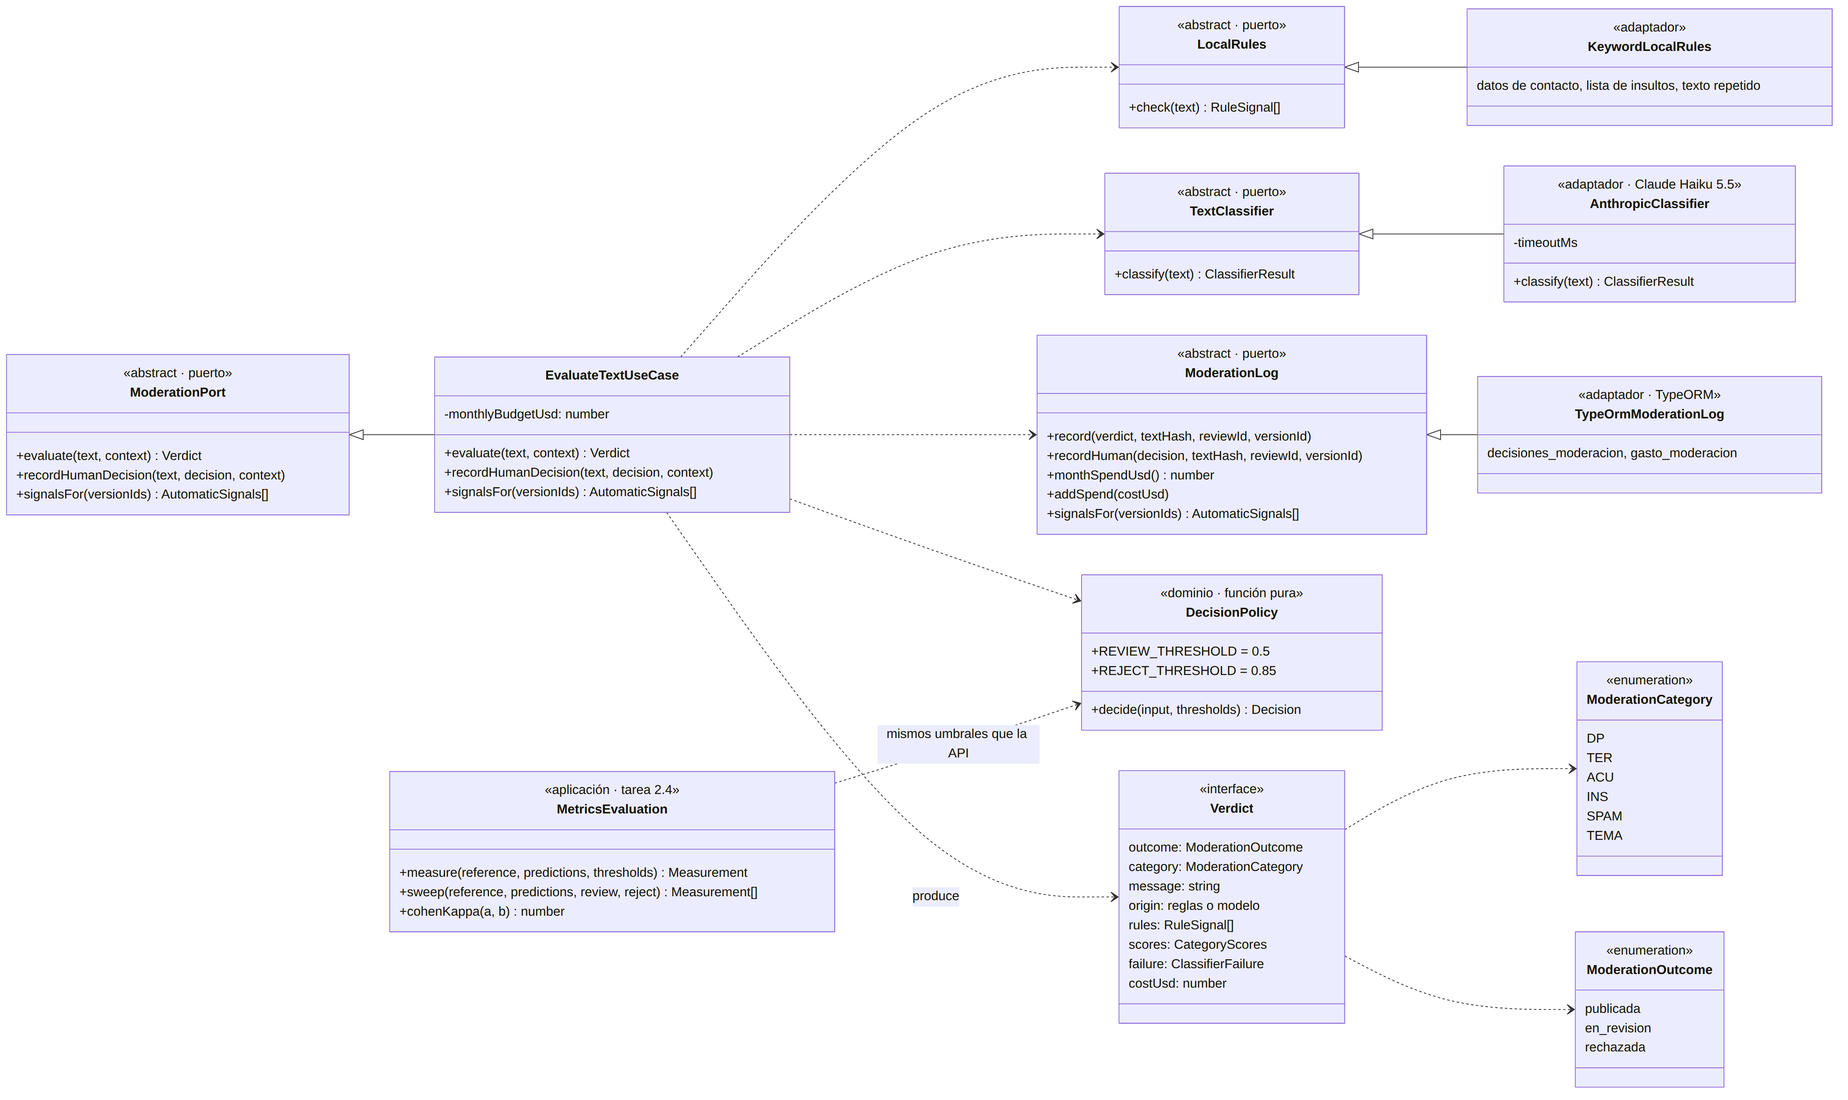
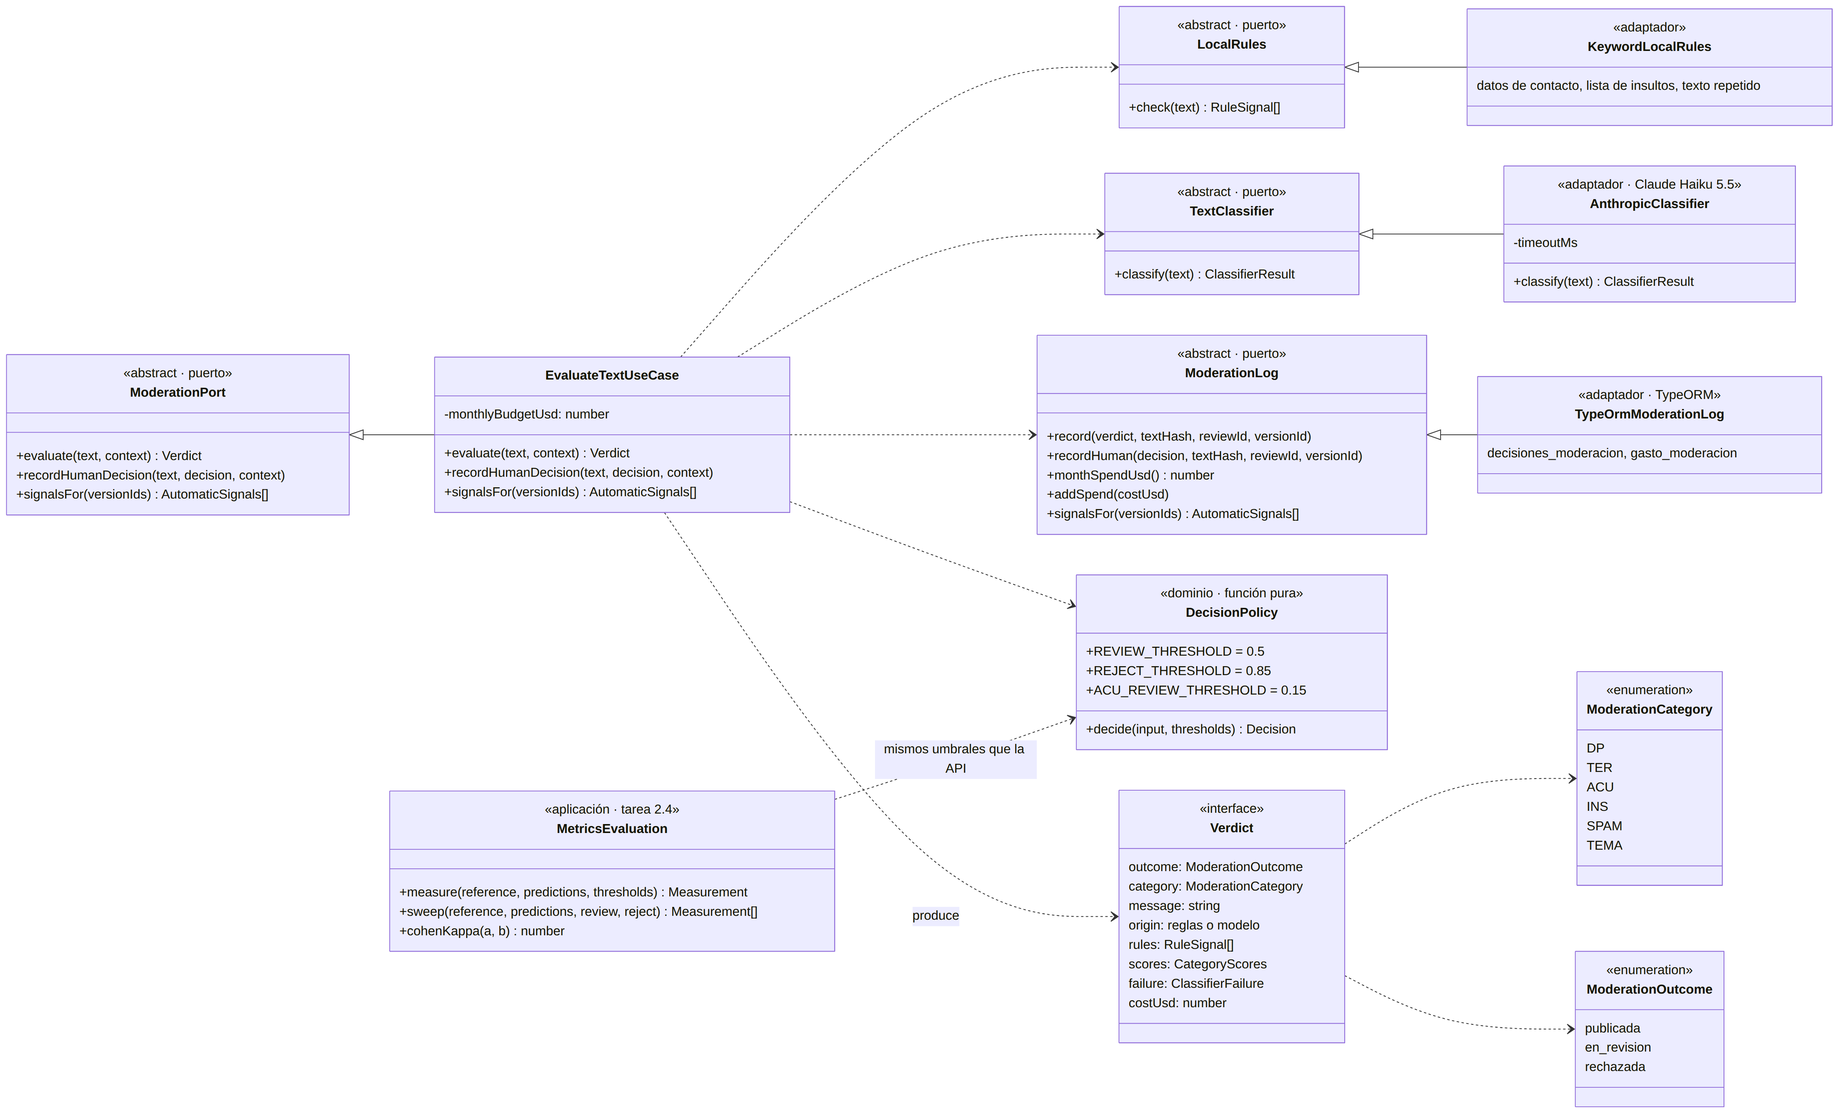
feat(2.4): medición con el modelo y umbral propio de ACU (0,15)
Resultado principal con los umbrales fijados antes de medir: F1 macro 0,80 y
5 de 6 indicadores; exhaustividad en ACU 0,38. El umbral de ACU baja a 0,15
(0,81 en el mismo conjunto) y se confirma en la 4.2.

diff --git a/src/moderation/infrastructure/cli/measure.ts b/src/moderation/infrastructure/cli/measure.ts
@@ -2,21 +2,23 @@
 // No llama al modelo: se puede repetir gratis, por ejemplo para probar otros umbrales.
 //   npm run moderation:metrics                                  contra etiquetas-final.csv (la medición del OE5)
 //   npm run moderation:metrics -- --referencia intencion        PROVISIONAL: contra la intención de autoría
+//   npm run moderation:metrics -- --umbrales iniciales          con los umbrales fijados antes de medir (resultado principal)
 //   npm run moderation:metrics -- --predicciones docs/moderacion/resultados/predicciones-reglas.csv
 // Si están etiquetas-anotador-1.csv y etiquetas-anotador-2.csv, informa además el acuerdo (kappa de Cohen).
 import { existsSync, readdirSync, readFileSync, statSync, writeFileSync } from 'fs';
 import { basename, join } from 'path';
 import { CATEGORIES, RuleSignal } from '../../domain/model/moderation';
-import { POLICY_THRESHOLDS } from '../../domain/model/decision-policy';
+import { POLICY_THRESHOLDS, Thresholds } from '../../domain/model/decision-policy';
 import {
-    agreement, csvRecords, Indicator, Measurement, measure, Prediction, Reference, referenceFromIntention,
-    referenceFromLabels, sweep,
+    agreement, csvRecords, Indicator, INITIAL_THRESHOLDS, Measurement, measure, Prediction, Reference,
+    referenceFromIntention, referenceFromLabels, sweep, sweepAcu,
 } from '../../application/evaluation/metrics';
 
 const DIR = join(process.cwd(), 'docs/moderacion');
 const RESULTS = join(DIR, 'resultados');
 const REVIEW_GRID = [0.3, 0.4, 0.5, 0.6, 0.7];
 const REJECT_GRID = [0.7, 0.8, 0.85, 0.9, 0.95];
+const ACU_GRID = [0.1, 0.15, 0.2, 0.25, 0.3, 0.4, 0.5];
 
 const option = (name: string) => {
     const index = process.argv.indexOf(name);
@@ -58,19 +60,31 @@ function categoriesTable(m: Measurement): string {
         `| **F1 macro** | | | | | | | | | **${num(m.macroF1)}** |`].join('\n');
 }
 
-function sweepTable(runs: Measurement[]): string {
+function sweepTable(runs: Measurement[], used: Thresholds): string {
     const value = (m: Measurement, name: string) => m.indicators.find(i => i.name === name)!.value;
     const all = (m: Measurement) => m.indicators.every(i => i.passes !== false);
     return ['| Revisión desde | Rechazo desde | Exh. DP | Exh. TER | Exh. ACU | F1 macro | «Ninguna» rechazados | A revisión | Cumple todo |',
         '| --- | --- | --- | --- | --- | --- | --- | --- | --- |',
         ...runs.map(m => {
-            const current = m.thresholds.review === POLICY_THRESHOLDS.review && m.thresholds.reject === POLICY_THRESHOLDS.reject;
+            const current = m.thresholds.review === used.review && m.thresholds.reject === used.reject;
             const mark = current ? ' (actual)' : '';
             return `| ${num(m.thresholds.review)}${mark} | ${num(m.thresholds.reject)} | ${num(value(m, 'Exhaustividad en DP'))} | ${num(value(m, 'Exhaustividad en TER'))} | ${num(value(m, 'Exhaustividad en ACU'))} | ${num(m.macroF1)} | ${pct(m.noneRejected)} | ${pct(m.reviewRate)} | ${all(m) ? 'sí' : 'no'} |`;
         })].join('\n');
 }
 
+function acuTable(runs: Measurement[], used: Thresholds): string {
+    const acu = (m: Measurement) => m.metrics.find(c => c.category === 'ACU')!;
+    return ['| ACU desde | Exh. ACU | Precisión ACU | F1 macro | «Ninguna» rechazados | A revisión | Cumple todo |',
+        '| --- | --- | --- | --- | --- | --- | --- |',
+        ...runs.map(m => `| ${num(m.thresholds.acu)}${m.thresholds.acu === used.acu ? ' (actual)' : ''} | ${num(acu(m).recall)} | ${num(acu(m).precision)} | ${num(m.macroF1)} | ${pct(m.noneRejected)} | ${pct(m.reviewRate)} | ${m.indicators.every(i => i.passes !== false) ? 'sí' : 'no'} |`),
+    ].join('\n');
+}
+
 function main() {
+    const which = option('--umbrales') ?? 'politica';
+    if (which !== 'politica' && which !== 'iniciales') throw new Error('--umbrales es «politica» o «iniciales»');
+    const initial = which === 'iniciales';
+    const thresholds = initial ? INITIAL_THRESHOLDS : POLICY_THRESHOLDS;
     const kind = option('--referencia') ?? 'final';
     if (kind !== 'final' && kind !== 'intencion') throw new Error('--referencia es «final» o «intencion»');
     const predictionsPath = option('--predicciones') ?? latestPredictions();
@@ -84,8 +98,10 @@ function main() {
     const reference: Reference = kind === 'final' ? referenceFromLabels(read(finalPath)) : referenceFromIntention(read(join(DIR, 'intencion-autora.csv')));
 
     const withModel = predictions.some(p => p.scores !== null);
-    const current = measure(reference, predictions);
-    const runs = withModel ? sweep(reference, predictions, REVIEW_GRID, REJECT_GRID) : [];
+    const current = measure(reference, predictions, thresholds);
+    // Con los umbrales iniciales ACU acompaña al de revisión; con los de la política queda fijo en el suyo.
+    const runs = withModel ? sweep(reference, predictions, REVIEW_GRID, REJECT_GRID, initial ? undefined : thresholds.acu) : [];
+    const acuRuns = withModel ? sweepAcu(reference, predictions, ACU_GRID, thresholds) : [];
     const spent = rows.reduce((sum, r) => sum + Number(r.costo_usd || 0), 0);
     const failures = predictions.filter(p => p.failure).length;
     const model = rows.find(r => r.modelo)?.modelo ?? '—';
@@ -97,7 +113,7 @@ function main() {
         : null;
 
     const date = new Date().toISOString().slice(0, 10);
-    const name = `metricas-${date}-${kind}-${basename(predictionsPath, '.csv').replace(/^predicciones-/, '')}`;
+    const name = `metricas-${date}-${kind}-${basename(predictionsPath, '.csv').replace(/^predicciones-/, '')}${initial ? '-umbrales-iniciales' : ''}`;
     const lines = [
         `# Medición de la moderación — ${date}`,
         '',
@@ -107,9 +123,12 @@ function main() {
         '',
         `- Textos: ${predictions.length} (${[...reference.values()].filter(s => s.size === 0).length} sin ninguna categoría en la referencia)`,
         `- Predicciones: \`${basename(predictionsPath)}\` — ${withModel ? `reglas y modelo \`${model}\`, instrucción \`${prompt}\`` : '**solo reglas** (sin el modelo)'}`,
-        `- Umbrales de la política: revisión desde ${num(POLICY_THRESHOLDS.review)}, rechazo desde ${num(POLICY_THRESHOLDS.reject)}`,
+        initial
+            ? `- Umbrales fijados antes de medir: revisión desde ${num(thresholds.review)} (también ACU), rechazo desde ${num(thresholds.reject)}`
+            : `- Umbrales de la política: revisión desde ${num(thresholds.review)}, rechazo desde ${num(thresholds.reject)}, ACU desde ${num(thresholds.acu)} (siempre a revisión)`,
+        ...(initial ? [] : ['- **El umbral de ACU se eligió con este mismo conjunto** (23/11): los valores de ACU son optimistas hasta confirmarlos con textos nuevos (tarea 4.2). El resultado principal es el informe con los umbrales iniciales.']),
         ...(withModel ? [`- Gasto del modelo: USD ${spent.toFixed(4)}${failures ? `; ${failures} textos sin respuesta válida (van a revisión)` : ''}`] : []),
-        '- Una categoría cuenta como detectada si la marca una regla o si el modelo le da una confianza igual o mayor al umbral de revisión. Los textos con datos de contacto no se envían al modelo, igual que en la API.',
+        '- Una categoría cuenta como detectada si la marca una regla o si el modelo le da una confianza igual o mayor a su umbral de revisión. Los textos con datos de contacto no se envían al modelo, igual que en la API.',
         '',
         '## Indicadores de la política (sección 11)',
         '',
@@ -124,7 +143,9 @@ function main() {
         '',
     ];
     if (runs.length) {
-        lines.push('## Barrido de umbrales (para recalibrar, política sección 12)', '', sweepTable(runs), '');
+        lines.push('## Barrido de umbrales (para recalibrar, política sección 12)', '',
+            initial ? 'ACU usa el mismo umbral de revisión que las demás.' : `ACU queda fijo en ${num(thresholds.acu)}.`, '', sweepTable(runs, thresholds), '',
+            '## Barrido del umbral de ACU', '', `Las demás categorías quedan en ${num(thresholds.review)} y ${num(thresholds.reject)}.`, '', acuTable(acuRuns, thresholds), '');
     }
     if (kappa) {
         lines.push('## Acuerdo entre las dos personas (kappa de Cohen)', '',
@@ -136,7 +157,7 @@ function main() {
     writeFileSync(md, lines.filter((l, i, all) => !(l === '' && all[i - 1] === '')).join('\n'));
     writeFileSync(join(RESULTS, `${name}.json`), JSON.stringify({
         fecha: date, referencia: kind, predicciones: basename(predictionsPath), modelo: withModel ? model : null,
-        versionPrompt: withModel ? prompt : null, gastoUsd: spent, actual: current, barrido: runs, acuerdo: kappa,
+        versionPrompt: withModel ? prompt : null, gastoUsd: spent, umbrales: which, actual: current, barrido: runs, barridoAcu: acuRuns, acuerdo: kappa,
     }, null, 2) + '\n');
 
     console.log(`Informe: ${md}`);

diff --git a/src/moderation/application/evaluation/metrics.ts b/src/moderation/application/evaluation/metrics.ts
@@ -91,14 +91,20 @@ const RULE_CATEGORY: Record<RuleSignal, ModerationCategory> = {
     texto_repetido: ModerationCategory.SPAM,
 };
 
+/** Umbrales fijados antes de medir (19/11). Dan el resultado principal del OE5; la API usa `POLICY_THRESHOLDS`. */
+export const INITIAL_THRESHOLDS: Thresholds = { review: 0.5, reject: 0.85, acu: 0.5 };
+
 /**
- * Categorías que el sistema detecta en un texto: las que marca una regla y las que el modelo puntúa con el umbral de
- * revisión o más (desde ahí el sistema actúa: revisa o rechaza).
+ * Categorías que el sistema detecta en un texto: las que marca una regla y las que el modelo puntúa con su umbral de
+ * revisión o más (desde ahí el sistema actúa: revisa o rechaza). ACU tiene un umbral de revisión propio.
  */
 export function detected(prediction: Prediction, thresholds: Thresholds = POLICY_THRESHOLDS): Set<ModerationCategory> {
     const found = new Set(prediction.rules.map(rule => RULE_CATEGORY[rule]));
     if (prediction.scores) {
-        for (const category of CATEGORIES) if (prediction.scores[category] >= thresholds.review) found.add(category);
+        for (const category of CATEGORIES) {
+            const threshold = category === ModerationCategory.ACU ? thresholds.acu : thresholds.review;
+            if (prediction.scores[category] >= threshold) found.add(category);
+        }
     }
     return found;
 }
@@ -241,7 +247,15 @@ export function measure(reference: Reference, predictions: Prediction[], thresho
     };
 }
 
-/** Recalcula la medición con cada par de umbrales (revisión < rechazo), para recalibrar (política, sección 12). */
-export function sweep(reference: Reference, predictions: Prediction[], review: number[], reject: number[]): Measurement[] {
-    return review.flatMap(r => reject.filter(j => j > r).map(j => measure(reference, predictions, { review: r, reject: j })));
+/**
+ * Recalcula la medición con cada par de umbrales (revisión < rechazo), para recalibrar (política, sección 12).
+ * Sin `acu`, ACU usa el mismo umbral de revisión que las demás.
+ */
+export function sweep(reference: Reference, predictions: Prediction[], review: number[], reject: number[], acu?: number): Measurement[] {
+    return review.flatMap(r => reject.filter(j => j > r).map(j => measure(reference, predictions, { review: r, reject: j, acu: acu ?? r })));
+}
+
+/** Recalcula la medición cambiando solo el umbral de ACU. */
+export function sweepAcu(reference: Reference, predictions: Prediction[], acu: number[], base: Thresholds = POLICY_THRESHOLDS): Measurement[] {
+    return acu.map(value => measure(reference, predictions, { ...base, acu: value }));
 }

diff --git a/src/moderation/domain/model/decision-policy.ts b/src/moderation/domain/model/decision-policy.ts
@@ -1,8 +1,9 @@
 import { CATEGORIES, CategoryScores, ClassifierFailure, ModerationCategory, ModerationOutcome, RuleSignal } from './moderation';
 
-// Tabla de decisión de la política de moderación (sección 5). Umbrales provisionales: se recalibran con la
-// medición de la tarea 2.4.
+// Tabla de decisión de la política de moderación (sección 5). Los umbrales de revisión y rechazo se fijaron antes de
+// medir; el de ACU se bajó de 0,5 a 0,15 con la medición de la 2.4 (23/11) y se confirma con textos nuevos en la 4.2.
 export const REVIEW_THRESHOLD = 0.5;
+export const ACU_REVIEW_THRESHOLD = 0.15;
 export const REJECT_THRESHOLD = 0.85;
 
 /** Umbrales de la tabla de decisión. La API usa los de la política; la medición (2.4) prueba otros. */
@@ -11,9 +12,11 @@ export interface Thresholds {
     review: number;
     /** Desde esta confianza se rechaza (salvo ACU, que siempre va a revisión). */
     reject: number;
+    /** Desde esta confianza en ACU va a revisión: es el riesgo legal, se prefiere revisar de más. */
+    acu: number;
 }
 
-export const POLICY_THRESHOLDS: Thresholds = { review: REVIEW_THRESHOLD, reject: REJECT_THRESHOLD };
+export const POLICY_THRESHOLDS: Thresholds = { review: REVIEW_THRESHOLD, reject: REJECT_THRESHOLD, acu: ACU_REVIEW_THRESHOLD };
 
 /** Mensajes para quien escribió la reseña (sección 7). */
 export const REJECTION_MESSAGES: Record<ModerationCategory, string> = {
@@ -52,7 +55,7 @@ function top(scores: CategoryScores, accept: (category: ModerationCategory, scor
 
 /**
  * Aplica la tabla de decisión en orden; gana la primera fila que se cumple.
- * 1. Regla DP → rechazada. 2. ACU ≥ 0,5 → revisión. 3. Otra categoría ≥ 0,85 → rechazada.
+ * 1. Regla DP → rechazada. 2. ACU ≥ 0,15 → revisión. 3. Otra categoría ≥ 0,85 → rechazada.
  * 4. Alguna entre 0,5 y 0,85, lista de insultos o texto repetido → revisión. 5. Sin modelo → revisión. 6. Publicada.
  * Los umbrales son los de la política salvo que se pasen otros (solo lo hace la medición de la tarea 2.4).
  */
@@ -68,7 +71,7 @@ export function decide(input: DecisionInput, thresholds: Thresholds = POLICY_THR
         return { outcome: ModerationOutcome.InReview, category: ruleCategory, message: REVIEW_MESSAGE, origin: ruleCategory ? 'reglas' : 'modelo' };
     }
 
-    if (scores.ACU >= thresholds.review) {
+    if (scores.ACU >= thresholds.acu) {
         return { outcome: ModerationOutcome.InReview, category: ModerationCategory.ACU, message: REVIEW_MESSAGE, origin: 'modelo' };
     }
 

diff --git a/src/moderation/application/evaluation/metrics.spec.ts b/src/moderation/application/evaluation/metrics.spec.ts
@@ -1,7 +1,7 @@
 import { CategoryScores, ModerationCategory } from '../../domain/model/moderation';
 import {
-    agreement, categoryMetrics, cohenKappa, csvRecords, detected, evaluate, macroF1, measure, parseCsv, Prediction,
-    Reference, referenceFromIntention, referenceFromLabels, sweep, toCsv,
+    agreement, categoryMetrics, cohenKappa, csvRecords, detected, evaluate, INITIAL_THRESHOLDS, macroF1, measure, parseCsv,
+    Prediction, Reference, referenceFromIntention, referenceFromLabels, sweep, sweepAcu, toCsv,
 } from './metrics';
 
 const zero: CategoryScores = { DP: 0, TER: 0, ACU: 0, INS: 0, SPAM: 0, TEMA: 0 };
@@ -44,7 +44,13 @@ describe('Detección', () => {
     it('cuenta las reglas y las confianzas desde el umbral de revisión', () => {
         const p: Prediction = { id: 'M1', rules: ['datos_contacto', 'lista_insultos'], scores: { ...zero, TER: 0.5, TEMA: 0.49 }, failure: null };
         expect([...detected(p)].sort()).toEqual(['DP', 'INS', 'TER']);
-        expect([...detected(p, { review: 0.4, reject: 0.9 })].sort()).toEqual(['DP', 'INS', 'TEMA', 'TER']);
+        expect([...detected(p, { review: 0.4, reject: 0.9, acu: 0.15 })].sort()).toEqual(['DP', 'INS', 'TEMA', 'TER']);
+    });
+
+    it('ACU se detecta con su propio umbral', () => {
+        const p = scored('M1', { ACU: 0.15, TER: 0.15 });
+        expect([...detected(p)]).toEqual(['ACU']);
+        expect([...detected(p, INITIAL_THRESHOLDS)]).toEqual([]);
     });
 
     it('sin el modelo solo cuentan las reglas', () => {
@@ -136,5 +142,16 @@ describe('Indicadores de la política', () => {
         expect(runs.map(r => [r.thresholds.review, r.thresholds.reject])).toEqual([[0.5, 0.85], [0.5, 0.95], [0.9, 0.95]]);
         // Con rechazo en 0,95 el TEMA de 0,9 ya no rechaza: va a revisión.
         expect(runs[1].noneRejected).toBe(0);
+    });
+
+    it('el barrido usa para ACU el umbral de revisión, salvo que se pase otro', () => {
+        expect(sweep(ref, preds, [0.4], [0.85]).map(r => r.thresholds.acu)).toEqual([0.4]);
+        expect(sweep(ref, preds, [0.4], [0.85], 0.15).map(r => r.thresholds.acu)).toEqual([0.15]);
+    });
+
+    it('el barrido de ACU solo cambia el umbral de ACU', () => {
+        expect(sweepAcu(ref, preds, [0.1, 0.3], INITIAL_THRESHOLDS).map(r => r.thresholds)).toEqual([
+            { review: 0.5, reject: 0.85, acu: 0.1 }, { review: 0.5, reject: 0.85, acu: 0.3 },
+        ]);
     });
 });

diff --git a/src/moderation/domain/model/decision-policy.spec.ts b/src/moderation/domain/model/decision-policy.spec.ts
@@ -11,9 +11,15 @@ describe('Tabla de decisión de la política de moderación (sección 5)', () =>
         });
     });
 
-    it('fila 2: una acusación con 0,5 o más va siempre a revisión, aunque supere 0,85', () => {
+    it('fila 2: una acusación con 0,15 o más va siempre a revisión, aunque supere 0,85', () => {
         expect(decide({ rules: [], scores: scores({ ACU: 0.99 }), failure: null })).toMatchObject({ outcome: O.InReview, category: C.ACU });
-        expect(decide({ rules: [], scores: scores({ ACU: 0.5, INS: 0.95 }), failure: null }).outcome).toBe(O.InReview);
+        expect(decide({ rules: [], scores: scores({ ACU: 0.15, INS: 0.95 }), failure: null })).toMatchObject({ outcome: O.InReview, category: C.ACU });
+        expect(decide({ rules: [], scores: scores({ ACU: 0.14 }), failure: null }).outcome).toBe(O.Published);
+    });
+
+    it('fila 2: el umbral de ACU es propio: no cambia el de las demás categorías', () => {
+        expect(decide({ rules: [], scores: scores({ TER: 0.4, INS: 0.4 }), failure: null }).outcome).toBe(O.Published);
+        expect(decide({ rules: [], scores: scores({ ACU: 0.3 }), failure: null }, { review: 0.5, reject: 0.85, acu: 0.5 }).outcome).toBe(O.Published);
     });
 
     it('fila 3: otra categoría con 0,85 o más rechaza con su mensaje, eligiendo la de mayor confianza', () => {

diff --git a/docs/politica-moderacion.md b/docs/politica-moderacion.md
@@ -1,7 +1,7 @@
 # Política de moderación de Mbaapohara
 
 Tarea 2.1 del plan · aprobada el 19/11/2026 · **provisional** hasta tener la pregunta 19 de la encuesta y la
-primera medición (tarea 2.4). Es la fuente de la página «Cómo moderamos» (1.9), de la guía de etiquetado (2.2),
+medición final (tarea 4.2). Es la fuente de la página «Cómo moderamos» (1.9), de la guía de etiquetado (2.2),
 del módulo `moderation` (2.3) y de la sección de moderación del PFG.
 
 ## 1. Principio
@@ -66,13 +66,16 @@ reintento**.
 | # | Condición | Resultado |
 | --- | --- | --- |
 | 1 | Regla DP | **Rechazada** con explicación (se puede corregir y reenviar) |
-| 2 | ACU con confianza ≥ 0,5 | **En revisión humana** (nunca se rechaza ni se publica sola) |
+| 2 | ACU con confianza ≥ **0,15** | **En revisión humana** (nunca se rechaza ni se publica sola) |
 | 3 | Cualquier otra categoría con confianza ≥ **0,85** | **Rechazada** con explicación |
-| 4 | Cualquier categoría entre **0,5 y 0,85**, una palabra de la lista de insultos o texto repetido | **En revisión humana** |
+| 4 | Cualquier otra categoría entre **0,5 y 0,85**, una palabra de la lista de insultos o texto repetido | **En revisión humana** |
 | 5 | El modelo no responde, responde algo inválido o se alcanzó el **tope de gasto** | **En revisión humana** |
-| 6 | Todas las categorías por debajo de 0,5 | **Publicada** |
+| 6 | ACU por debajo de 0,15 y las demás por debajo de 0,5 | **Publicada** |
 
-Los umbrales **0,5 y 0,85** son provisionales y se recalibran con la medición de la tarea 2.4.
+Los umbrales **0,5 y 0,85** se fijaron antes de medir y la medición de la 2.4 los mantiene. El de **ACU** bajó de 0,5 a
+**0,15** el 23/11: con 0,5 el modelo detectaba 12 de 32 acusaciones, casi siempre por no tomar un cargo («el chef», «el
+administrador») como persona identificable. ACU nunca rechaza, así que bajarlo solo suma revisión humana (de 14,3 % a
+18,0 %). Como se eligió con el mismo conjunto de evaluación, se confirma con textos nuevos en la 4.2.
 
 La lista de insultos **no rechaza sola**: muchas palabras del jopara cambian de sentido según el contexto. Por eso
 deriva a revisión, salvo que el modelo también marque INS con 0,85 o más.
@@ -163,6 +166,5 @@ exactitud, precisión, exhaustividad y F1 por categoría, con la matriz de confu
 
 - **Pregunta 19 de la encuesta:** cuando haya datos, confirmar qué temen más quienes publicarían (sobre todo la
   19.2, datos personales y de terceros) y ajustar categorías o mensajes.
-- **Tarea 2.4:** recalibrar los umbrales con la primera medición. El script está listo (`npm run moderation:metrics`,
-  con barrido de umbrales); falta el etiquetado de dos personas y la corrida con el modelo.
+- **Tarea 4.2:** confirmar el umbral de ACU (0,15) con textos que no se usaron para elegirlo.
 - Confirmar con el tutor los valores mínimos de la sección 11 y la propuesta de la sección 7.
